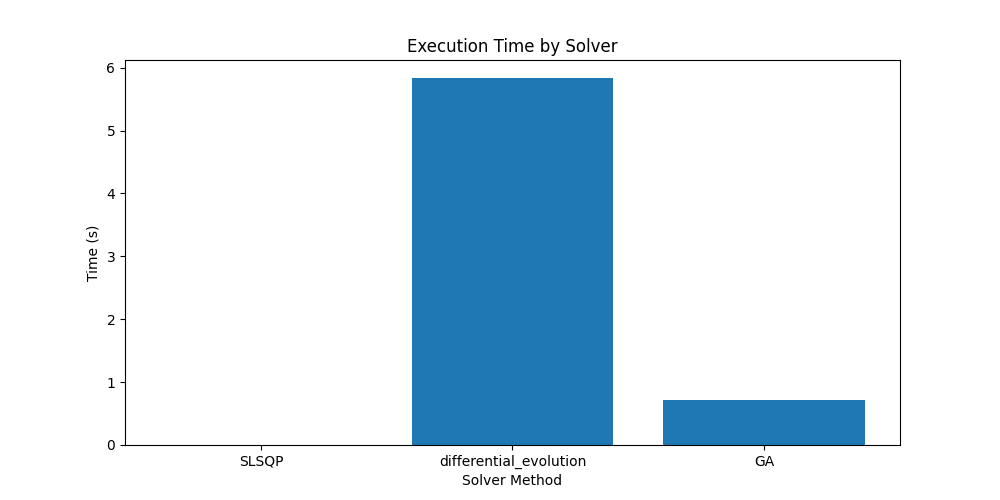
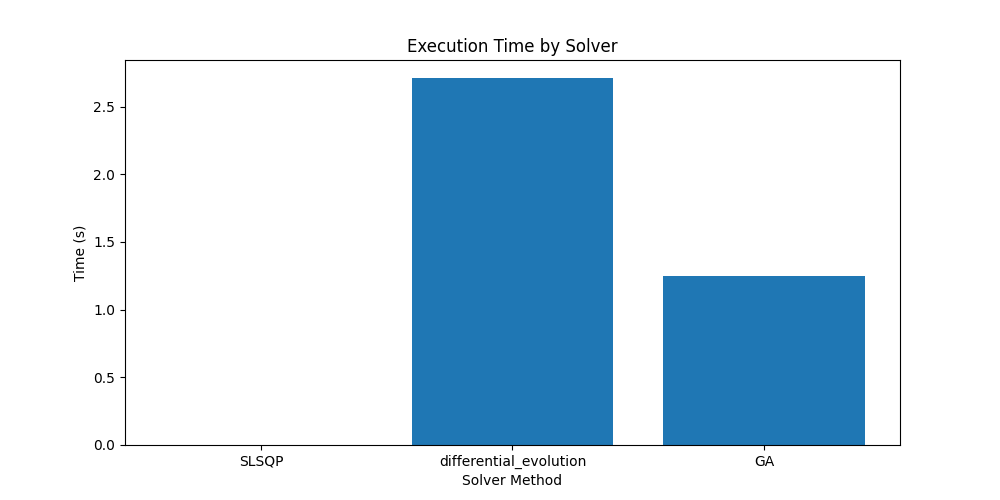
Edited tests

diff --git a/Stage_Opt/test_payload_optimization.py b/Stage_Opt/test_payload_optimization.py
@@ -187,7 +187,7 @@ stage,ISP,EPSILON
                 logger.debug(f"Method: {method} optimal DV: {optimal_dv}")
                 logger.debug(f"Method: {method} stage ratios: {stage_ratios}")
                 logger.debug(f"Method: {method} overall payload: {overall_payload}")
-                self.assertAlmostEqual(np.sum(optimal_dv), TOTAL_DELTA_V, places=5)
+                self.assertAlmostEqual(np.sum(optimal_dv), TOTAL_DELTA_V, delta=0.01)
                 for ratio in stage_ratios:
                     self.assertGreater(ratio, 0)
                 self.assertGreater(overall_payload, 0)

diff --git a/Stage_Opt/report.tex b/Stage_Opt/report.tex
@@ -15,9 +15,9 @@
 \hline
 Method & Time (s) & Payload Fraction \\
 \hline
-SLSQP & 0.0049 & 0.0053 \\
-differential_evolution & 5.8304 & 0.0247 \\
-GA & 0.7187 & 0.0121 \\
+SLSQP & 0.0020 & 0.0315 \\
+differential_evolution & 2.7082 & 0.0355 \\
+GA & 1.2490 & 0.0192 \\
 \hline
 \end{tabular}
 \end{document}
